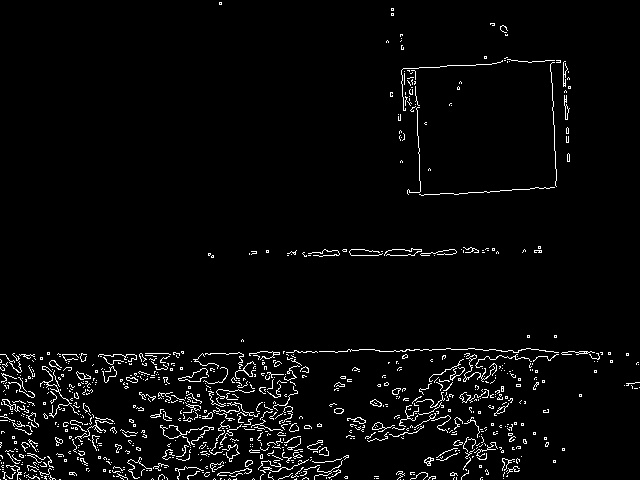
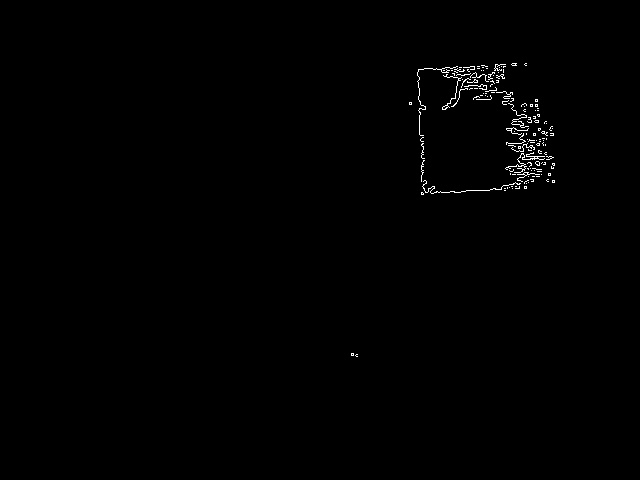
cell works well in test cases
need more test cases, todo on readme

diff --git a/src/cell.py b/src/cell.py
@@ -17,12 +17,13 @@ def mask(img):
   blk = cv2.bitwise_not(grey)
   kernel = cv2.getStructuringElement(cv2.MORPH_ELLIPSE,(3,3))
   res = cv2.morphologyEx(blk,cv2.MORPH_OPEN,kernel)
-  ret,thresh = cv2.threshold(res,127,255,0)
+  ret,thresh = cv2.threshold(blk,127,255,0)
   contours, hierarchy = cv2.findContours(thresh,cv2.RETR_TREE,cv2.CHAIN_APPROX_SIMPLE)
   dest = np.zeros(thresh.shape, np.uint8)
-  for cnt in contours:
-    print cnt
-    if cnt.any() >= 1:
+  print contours[0]
+  print len(contours)
+  for cnt in contours[1:]:
+    if cnt.any() > 0:
       rect  = cv2.minAreaRect(cnt)
       points = cv2.cv.BoxPoints(rect)
       points  = np.int0(np.around(points))

diff --git a/src/thresholding.py b/src/thresholding.py
@@ -4,7 +4,7 @@ import contours as ors
 import argparse
 
 parser = argparse.ArgumentParser(description = "performs canny edge detection on a still image")
-parser.add_argument('--image')
+parser.add_argument("image", help = "give the name of a file in ../images/", type=str)
 args = parser.parse_args()
 
 def threshold(z):

diff --git a/readme.md b/readme.md
@@ -6,6 +6,20 @@ targeted at mac OSX mavericks python2.7
 
 opencv installed with homebrew.... each dependency was installed manually .. in this case, eigen, qt, and  a reinstall of cmake.  in some cases, numpy / scipy will need to be installed as well
 
+to do:
+___________________
+
+auto-range for thresholding based on expected values
+
+~~find contours~~
+
+mask object
+
+find  coordinates of masked object
+
+integrate the components into a single toolchain
+
+
 video
 --------------------
 <dl>
@@ -21,7 +35,7 @@ using static images
 <dd>the bread-and-butter of this project: working on actually identifying the cell on a field</dd>
 <dt>thresholding</dt>
 <dd>the lynchpin of the rest of the software, performs thresholding operations to reduce noise</dd>
-<dd>usage: `python thresholding.py --image <img xyz.jpg>` </dd>
+<dd>usage: `python thresholding.py <img.jpg>` </dd>
 <dd>displays the thresholded image and saves it</dd>
 <dt>corner.py</dt>
 <dd>foundation functions for edge detection sloppy but reasonably quick</dd>
